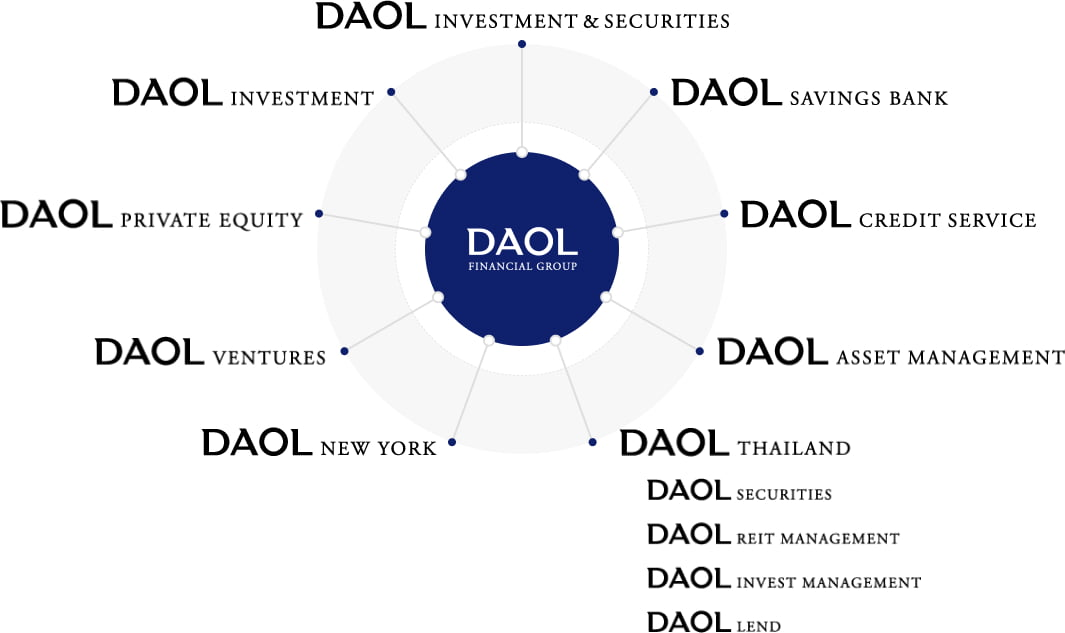
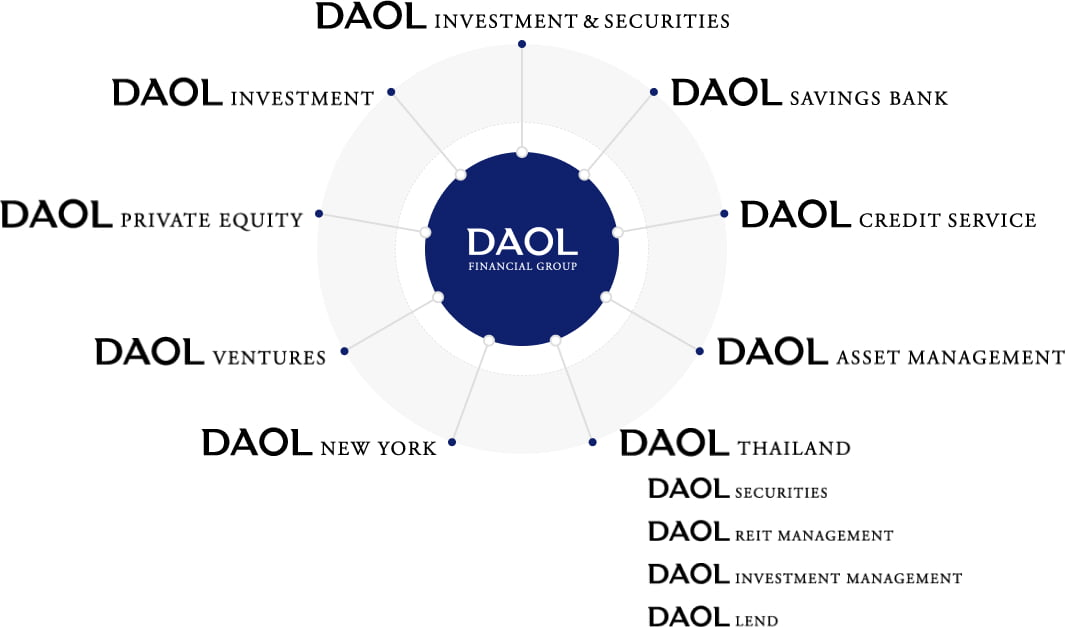
ci 변경 작업 : info - ir 추가, about - 계열사 이미지 수정

diff --git a/home/ktbnetwork/www/static/mobile/kr/css/m_contents.css b/home/ktbnetwork/www/static/mobile/kr/css/m_contents.css
@@ -87,6 +87,10 @@ header.headFixed ~ .container .pageTit:after{display:none}
 .boardList li a{overflow:hidden;display:block;padding:20px 20px 20px 0;position:relative;border-top:1px solid #dedede;font-size:15px;font-weight:500;color:#111;white-space:nowrap;text-overflow:ellipsis}
 .boardList li:first-child a{border-top:none}
 .boardList li a em{display:block;color:#737373;font-size:13px}
+.boardList.download {padding-right:30px;}
+.boardList.download li {position:relative;}
+.boardList.download li a {padding-right:46px;}
+.boardList.download li:before {position:absolute;top:50%;right:0;display:block;width:13px;height:13px;background:url(../images/common/btn_down.png) no-repeat left top;background-size:100%;transform:translate(0,-50%);-webkit-transform:translate(0,-50%);content:'';}
 .btnMore{display:block;width:100%;color:#737373;font-size:15px;font-weight:500;line-height:60px;text-align:center;border-top:1px solid #dedede;background:#fff}
 .btnMore:after{content:'';display:inline-block;width:7px;height:7px;margin:-7px 0 0 8px;vertical-align:middle;border:solid #737373;border-width:0 1px 1px 0;transform:rotate(45deg)}
 .noData{position:relative;padding:60px 0;text-align:center}

diff --git a/home/ktbnetwork/www/static/home/kr/css/p_contents.css b/home/ktbnetwork/www/static/home/kr/css/p_contents.css
@@ -152,6 +152,8 @@
 .boardList.noticeList>li>.tit{color:#111;font-size:18px;text-overflow:ellipsis;overflow:hidden;white-space:nowrap;word-wrap:normal !important}
 .boardList.noticeList>li>.tit, .boardList.noticeList>li>.tit:focus{font-weight:500}
 .boardList.noticeList>li>.file{position:absolute;top:50%;right:40px;width:40px;height:40px;padding:0;margin-top:-20px;background:url(../images/common/btn_down.png) 50% 50% no-repeat;text-indent:-9999px}
+.boardList.download li {position:relative;}
+.boardList.download li:before {position:absolute;top:50%;right:60px;width:20px;height:20px;margin-top:-10px;background:url(../images/common/btn_down.png) 50% 50% no-repeat;content:'';}
 .boardView{border-top:1px solid #111}
 .boardView .viewTit{overflow:hidden;padding:30px 40px;border-bottom:1px solid #dedede}
 .boardView .viewTit .tit{display:block;color:#111;font-size:18px}
